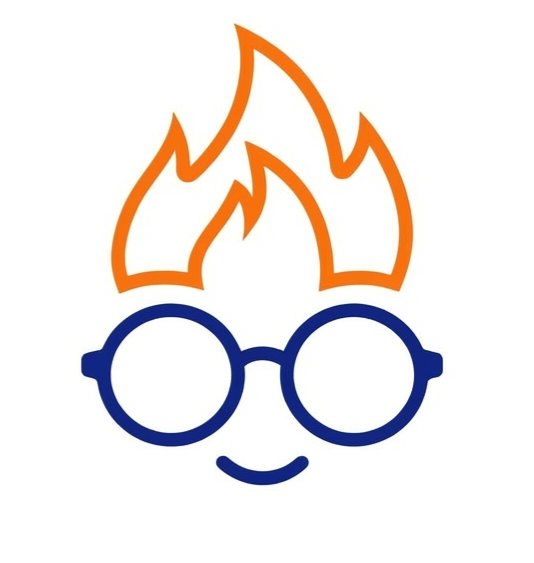
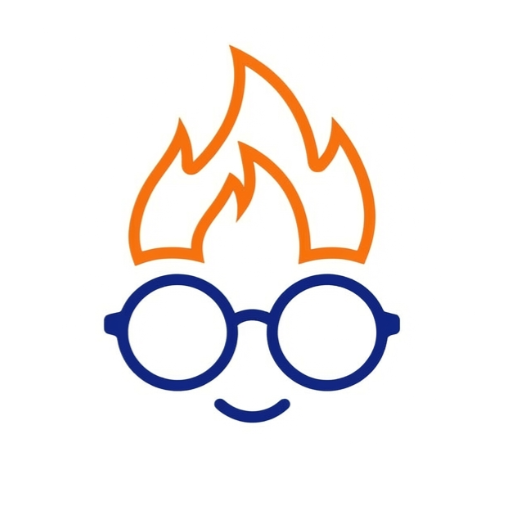
fix(pwa): ícones quadrados nos tamanhos corretos (corrige ícone sumido)
Os PNGs do ícone eram 534x563 (retangulares), mas o manifest os declarava como
192x192 e 512x512. Launchers rigorosos (MIUI/Xiaomi) validam tamanho e formato
do ícone e, quando não bate, descartam e mostram o placeholder genérico — foi o
que aconteceu após o rebuild, quando o service worker (autoUpdate) revalidou o
manifest.

- Regenera pwa-192x192, pwa-512x512 e apple-touch-icon-180x180 quadrados e
  exatamente no tamanho declarado, a partir do logo real.
- Adiciona pwa-maskable-512x512 dedicado, com margem de segurança (safe zone),
  e separa os propósitos no manifest: "any" (logo cheio) e "maskable" (com
  padding) — antes um único ícone full-bleed era usado como "any maskable" e
  seria cortado pela máscara adaptativa.
- Corrige lang do manifest para pt-BR (saía como "en").

Claude-Session: https://claude.ai/code/session_01Mog81NpdKe6LJUzWDP4uWR

Changed region(s): [[0.125, 0.0312, 0.8438, 0.875]]

diff --git a/vite.config.ts b/vite.config.ts
@@ -43,10 +43,11 @@ export default defineConfig(({ mode }) => ({
     mode === "development" && componentTagger(),
     VitePWA({
       registerType: "autoUpdate",
-      includeAssets: ["favicon.ico", "apple-touch-icon-180x180.png", "pwa-192x192.png", "pwa-512x512.png"],
+      includeAssets: ["favicon.ico", "apple-touch-icon-180x180.png", "pwa-192x192.png", "pwa-512x512.png", "pwa-maskable-512x512.png"],
       manifest: {
         name: "Devocionalzeiros",
         short_name: "Devocionalzeiros",
+        lang: "pt-BR",
         description: "App de Leitura Bíblica com Gamificação - Saia da estatística dos 70% que nunca leram a Bíblia toda",
         theme_color: "#1a1a2e",
         background_color: "#1a1a2e",
@@ -59,17 +60,19 @@ export default defineConfig(({ mode }) => ({
             src: "pwa-192x192.png",
             sizes: "192x192",
             type: "image/png",
+            purpose: "any",
           },
           {
             src: "pwa-512x512.png",
             sizes: "512x512",
             type: "image/png",
+            purpose: "any",
           },
           {
-            src: "pwa-512x512.png",
+            src: "pwa-maskable-512x512.png",
             sizes: "512x512",
             type: "image/png",
-            purpose: "any maskable",
+            purpose: "maskable",
           },
         ],
       },